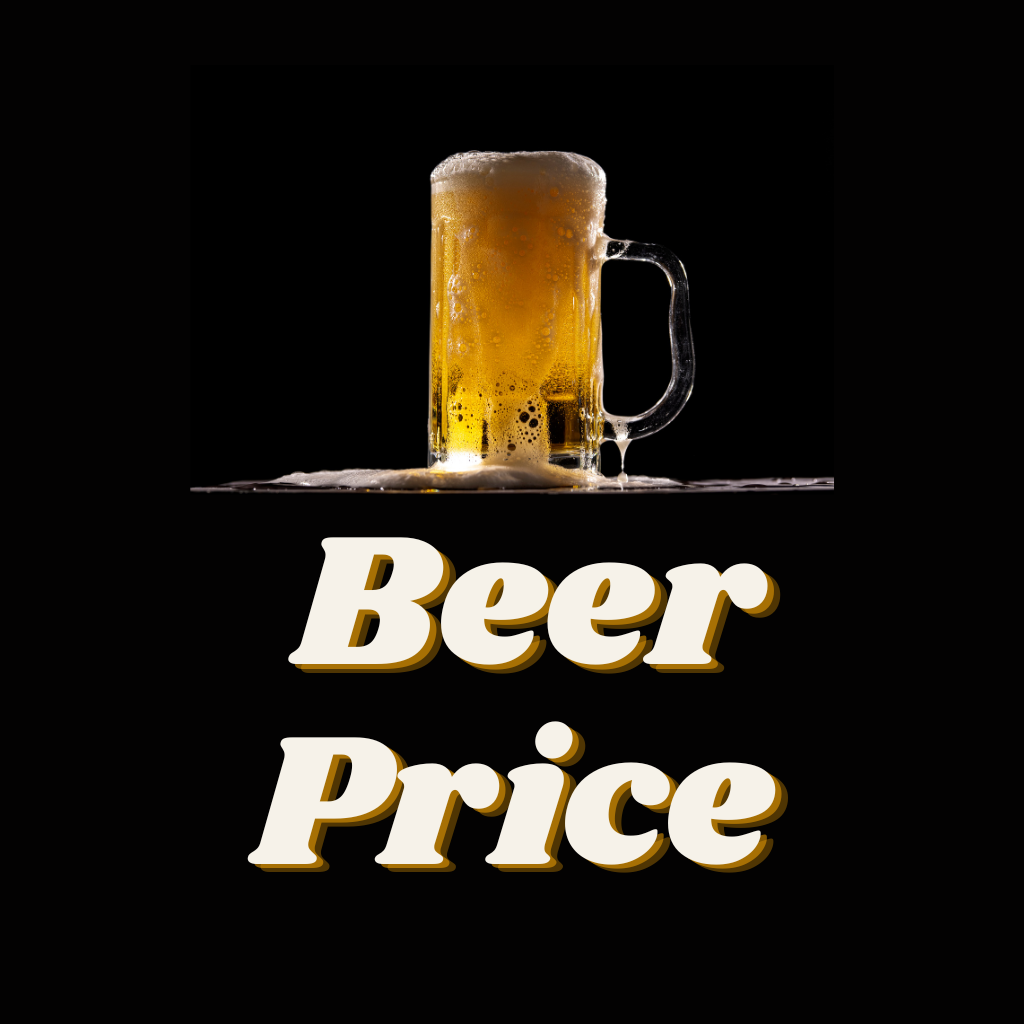
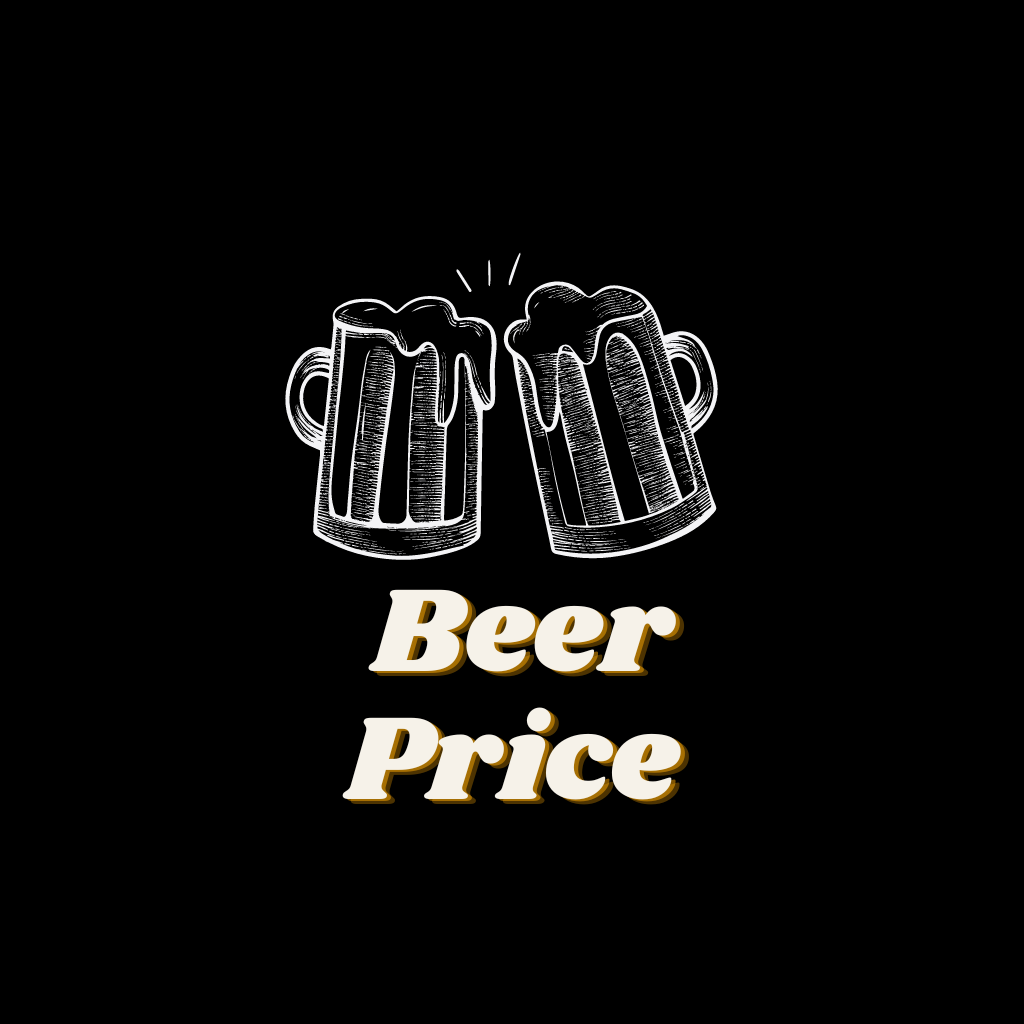
Ajustado bug e melhorado o icone e splash

Changed region(s): [[0.1875, 0.125, 0.8125, 0.875]]

diff --git a/Projeto/Frontend/BeerPrice/src/pages/detail/index.js b/Projeto/Frontend/BeerPrice/src/pages/detail/index.js
@@ -76,25 +76,20 @@ function Detail() {
   const [nomeDoMercadoSelecionado, setNomeDoMercadoSelecionado] = useState("");
 
   useEffect(() => {
-    setNomeDoMercadoSelecionado(nomeMercado);
-  });
+    if (nomeMercado) setNomeDoMercadoSelecionado(nomeMercado);
+  }, [nomeMercado]);
 
   useEffect(() => {
-    if (nomeDoMercadoSelecionado !== "") {
+    if (nomeDoMercadoSelecionado)
       getHistoricoPreco(route.params?.id, nomeDoMercadoSelecionado)
         .then((response) => {
           setHistoricoPreco(response.data);
-          setLoading(false);
         })
         .catch((err) => {
           console.error(
             "ops! ocorreu um erro: " + err + " " + err.response.data
           );
-        })
-        .finally(() => {
-          setLoading(false); // Move this inside the .finally block
         });
-    }
   }, [nomeDoMercadoSelecionado]);
 
   if (loading) {
@@ -115,7 +110,7 @@ function Detail() {
           <Feather
             name="clock"
             size={14}
-            color={"#a9a9a9"}
+            color={"#C0C0C0"}
             style={{ marginRight: 5 }}
           />
           <Atualizado>{itemCerveja.dataAtualizacao}</Atualizado>
@@ -172,7 +167,7 @@ function Detail() {
         <LineChart
           style={{ flex: 2 }}
           data={historicoPreco.map((item) => item.preco)}
-          svg={{ stroke: "rgb(134, 65, 244)", strokeWidth: 1.8 }}
+          svg={{ stroke: "rgb(176,224,230)", strokeWidth: 1.8 }}
           contentInset={{ top: 40, bottom: 40, right: 30, left: 30 }}
           curve={shape.curveMonotoneX}
         >

diff --git a/Projeto/Frontend/BeerPrice/src/pages/detail/styles.js b/Projeto/Frontend/BeerPrice/src/pages/detail/styles.js
@@ -3,7 +3,7 @@ import fonts from "../../styles/fonts";
 
 export const Container = styled.View`
   flex: 1;
-  background-color: #191a30;
+  background-color: #000000;
 `;
 
 export const Title = styled.Text`
@@ -38,7 +38,7 @@ export const ContainerAtualizacao = styled.View`
 
 export const Atualizado = styled.Text`
   font-size: 11px;
-  color: #a9a9a9;
+  color: #C0C0C0;
   
 `;
 

diff --git a/Projeto/Frontend/BeerPrice/src/pages/home/styles.js b/Projeto/Frontend/BeerPrice/src/pages/home/styles.js
@@ -2,7 +2,7 @@ import styled from 'styled-components/native';
 import fonts from '../../styles/fonts';
 
 export const Container = styled.SafeAreaView`
-    background-color: #141a29;
+    background-color: #000000;
     flex: 1;
     padding: 4px 0;
 `;
